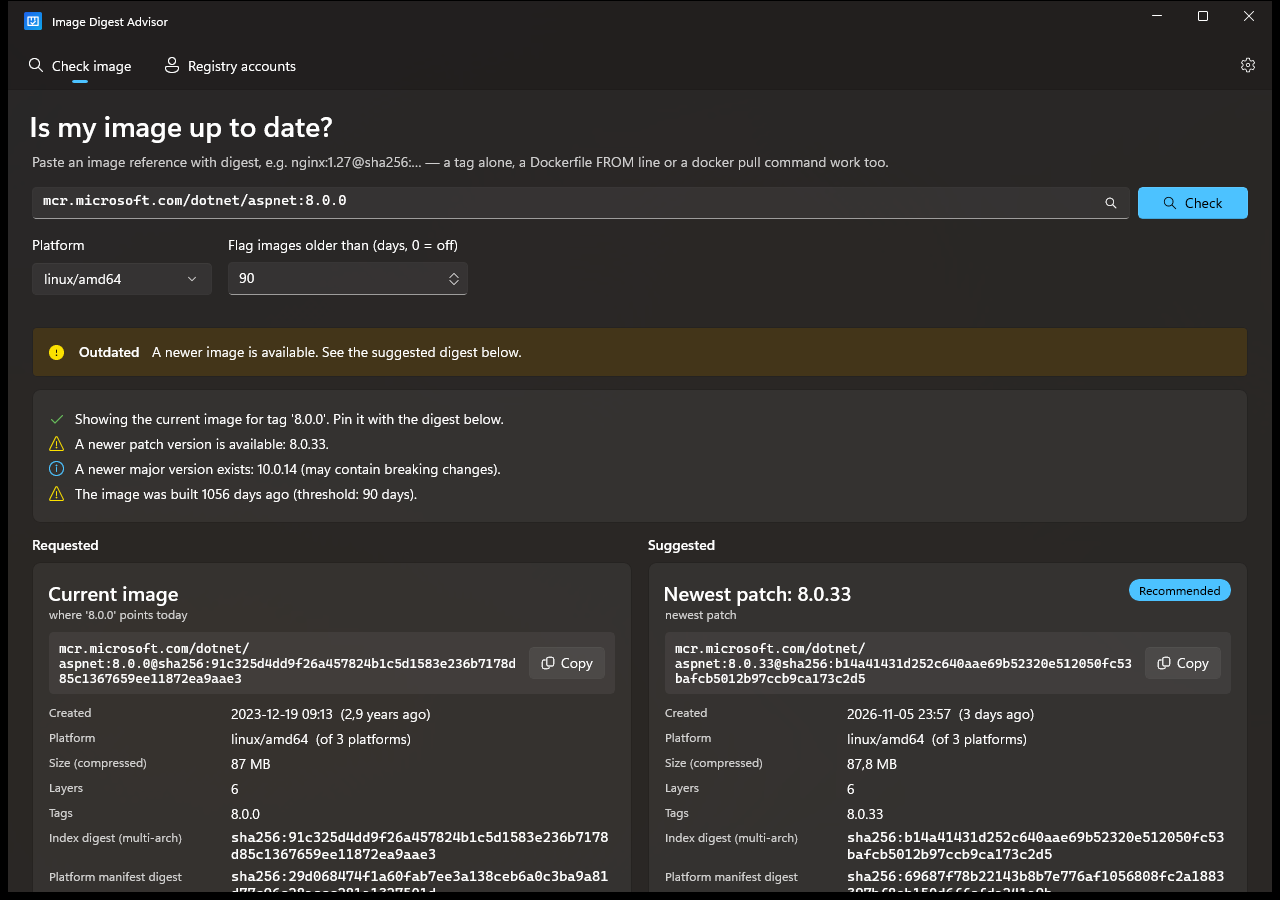
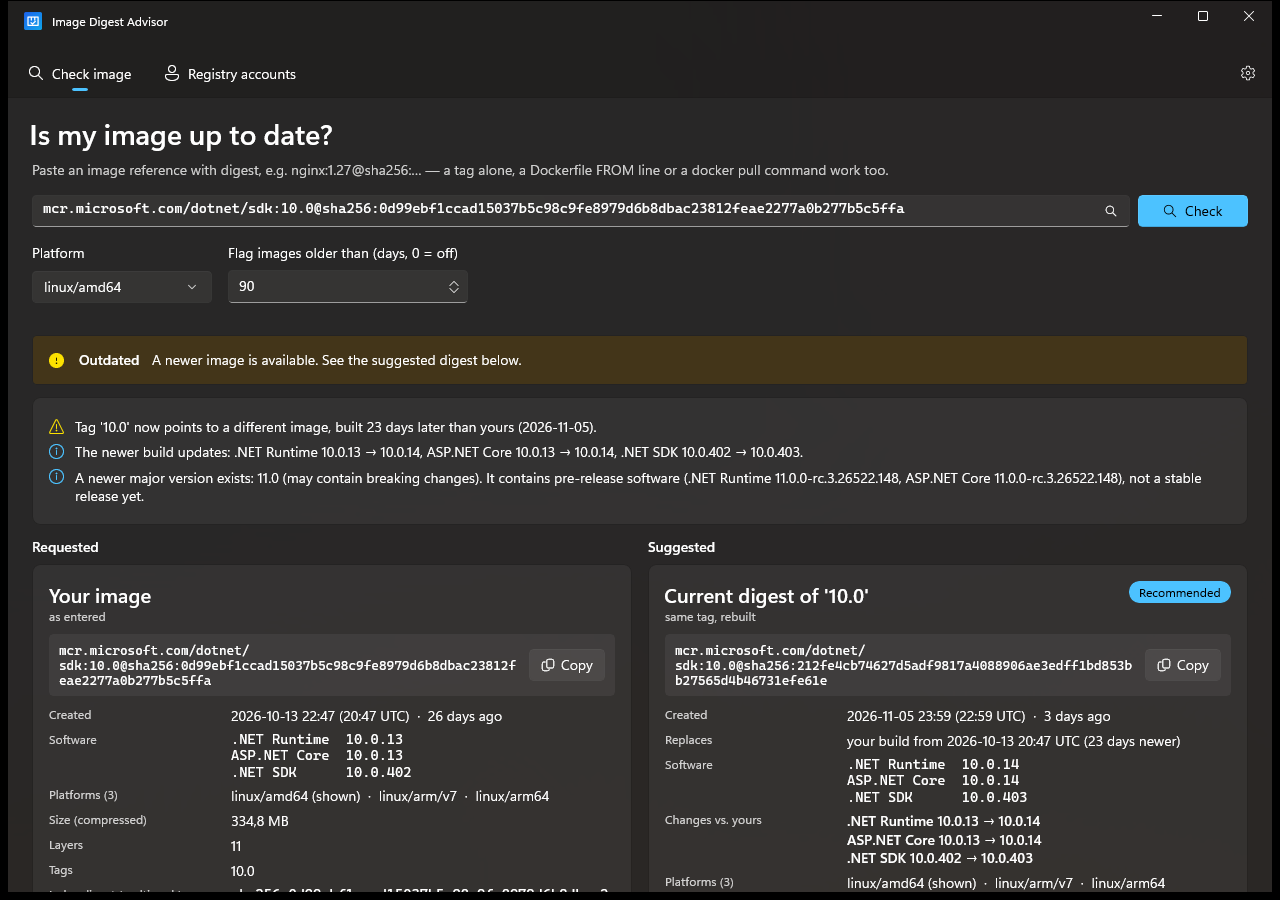
Update README and screenshots for v0.2.0
New screenshots of the current app (result view, image details with build history) and documentation of software versions, changes vs. your image, pre-release marking and the details sections.

diff --git a/README.md b/README.md
@@ -1,8 +1,12 @@
 # Image Digest Advisor
 
-**Is my pinned container image still up to date?** Image Digest Advisor is a Windows app that checks a Docker image digest such as `nginx:1.26@sha256:192e…` and tells you whether it is outdated. If it is, the app suggests an updated `repo:tag@sha256:…` reference that you can paste into your Dockerfile, compose file or Kubernetes manifest.
+**Is my pinned container image still up to date?** Image Digest Advisor is a Windows app that checks a Docker image digest such as `mcr.microsoft.com/dotnet/sdk:10.0@sha256:0d99…` and tells you whether it is outdated.
 
-![Image Digest Advisor showing an outdated image and the recommended update](docs/images/check-result.png)
+If it is, the app:
+- suggests an updated `repo:tag@sha256:…` reference that you can paste into your Dockerfile, compose file or Kubernetes manifest, and
+- shows **what changed**, e.g. *.NET SDK 10.0.402 → 10.0.403*.
+
+![Image Digest Advisor: the pinned .NET SDK image is outdated; the recommended update contains .NET 10.0.14 and SDK 10.0.403](docs/images/check-result.png)
 
 - [For users](#for-users): [supported registries](#supported-registries), install, check an image, read the result, registry accounts
 - [For developers](#for-developers): architecture, build, releases
@@ -18,12 +22,23 @@ For an image you enter, the app checks:
 
 | Check | Example |
 |---|---|
-| **Has the tag moved?** The same tag now points to a newer build. | `nginx:1.26` was rebuilt, and your digest is the old build. |
+| **Has the tag moved?** The same tag now points to a newer build. | `dotnet/sdk:10.0` was rebuilt 23 days after your build. |
+| **What's inside the newer build?** The software versions declared in both images are compared. | *.NET Runtime 10.0.13 → 10.0.14, .NET SDK 10.0.402 → 10.0.403*. Or: "same versions, rebuilt with base image / OS updates". |
 | **Is there a newer patch or minor version?** It stays in the same variant. | `1.26.0` → `1.26.3`, or `1.27.2-alpine` → `1.31.8-alpine` (never `-bookworm`) |
-| **Is there a new major version?** Shown for information only. | `8.0.x` → `10.0.x` |
+| **Is there a new major version?** Shown for information only. | `10.0` → `11.0` |
+| **Is the newer version a pre-release?** Preview and RC builds are marked and never recommended. | `sdk:11.0` currently contains *11.0.0-rc.3*, so it's shown as "⚠ pre-release" |
 | **Is the image old?** It was built more than *n* days ago (default 90). | "built 919 days ago" |
 
-For your image and for each suggestion it shows the build date and age, platform, size, number of layers, all tags pointing to it, the digests, and the image's labels (version, source repository, revision).
+For your image and for each suggestion, the app shows:
+
+- **Software versions** the image contains, e.g. .NET Runtime, ASP.NET Core, .NET SDK, nginx, Node.js, Python, Java, Go, PostgreSQL, Redis. These are read from the image's `*_VERSION` variables.
+- **What changed compared with your image** (on suggestions), and how much newer the build is.
+- **Build date** in local time and UTC, and the age.
+- **Platforms:** all platforms the image supports, e.g. `linux/amd64 · linux/arm/v7 · linux/arm64`.
+- **Size, layers, tags and digests.**
+- **Image labels:** version, source repository, revision, base image.
+- **How the container starts:** user, working directory, start command, exposed ports.
+- **Expandable details:** all labels, all environment variables, and the complete **build history** (every Dockerfile step with its date).
 
 ## Supported registries
 
@@ -107,15 +122,31 @@ Recent inputs are remembered. Click into the empty input box to see them.
 - 🟡 **Outdated**: the tag has moved, a newer patch or minor version exists, or the image is older than your limit.
 - 🔵 **Could not determine**: the tag of the digest is unknown. Enter the image as `repo:tag@sha256:…`.
 
-**The findings list** explains each reason, e.g. *"Tag '1.26' now points to a different image, built 278 days later than yours."*
+**The findings list** explains each reason, for example:
 
-**Requested vs. Suggested:** on the left is your image, on the right are the suggested updates. Each card has a **Copy** button for the ready-to-paste reference. One suggestion is marked **Recommended**:
+- ⚠ *Tag '10.0' now points to a different image, built 23 days later than yours.*
+- ℹ *The newer build updates: .NET Runtime 10.0.13 → 10.0.14, ASP.NET Core 10.0.13 → 10.0.14, .NET SDK 10.0.402 → 10.0.403.*
+- ℹ *A newer major version exists: 11.0. It contains pre-release software (.NET Runtime 11.0.0-rc.3…), not a stable release yet.*
+
+**Requested vs. Suggested:** on the left is your image, on the right are the suggested updates. Each card has a **Copy** button for the ready-to-paste reference.
+
+On each suggestion:
+- **Replaces** says how much newer it is than your build.
+- **Changes vs. yours** lists the software versions that differ, shown in bold.
+
+One suggestion is marked **Recommended**:
 
 1. the newest **patch** of your version line, otherwise
 2. the **current digest of your tag** (same tag, rebuilt), otherwise
 3. the newest **minor** version.
 
-A new **major** version is shown but never recommended automatically, because it may contain breaking changes.
+Some suggestions are never recommended automatically:
+- A new **major** version is shown, but it may contain breaking changes.
+- **Pre-releases** (preview or RC) are labelled *"⚠ pre-release (preview/RC), not a stable version"*. They also don't make your image "outdated".
+
+![Image details: build history of your image, and the pre-release 11.0 suggestion with software versions and changes](docs/images/image-details.png)
+
+Scroll down on a card for the full details. Expand **Environment variables** or **Build history** to see exactly how the image was built, e.g. which `DOTNET_VERSION` was set in which step.
 
 > **Tip:** Copy the reference **with** the tag, e.g. `nginx:1.26.3@sha256:41b1…`. The digest guarantees the exact image, and the tag keeps it readable.
 
@@ -159,6 +190,7 @@ Click **Test connection** before saving.
 | *"Could not determine"*, or no suggestions | Enter the tag as well: `repo:tag@sha256:…`. |
 | *"The tag … was guessed"* | The digest no longer has a tag, so the app used the version stored inside the image. Add the tag to your input for exact results. |
 | *"not available for linux/arm64"* | The suggested image doesn't support your platform. Choose another version. |
+| No **Software** row on a card | The image doesn't declare its versions in `*_VERSION` environment variables. Check **Version label**, **Build history** or the source repository instead. |
 | *"Update check failed"* | Usually no internet connection, or GitHub is blocked by a proxy. The app keeps working; try again later under **Settings › Updates**. |
 | The app doesn't start | Send `%LOCALAPPDATA%\ImageDigestAdvisor.Data\crash.log` to the maintainer, or [open an issue](https://github.com/hvetter-de/Image-Digest-Advisor/issues). |
 
@@ -183,11 +215,12 @@ Entry points: `DigestAnalyzer` (the analysis), `RegistryClient` (OCI Distributio
 ## How an analysis works
 
 1. Parse the reference (`nginx` → `docker.io/library/nginx`).
-2. Load the manifest by digest. For a multi-arch index, pick the platform manifest. Then read the config blob to get the created date, labels and environment.
+2. Load the manifest by digest. For a multi-arch index, pick the platform manifest. Then read the config blob to get the created date, labels, environment, entrypoint/cmd, user, ports and build history (`ManifestParser.ParseConfig` → `ImageConfig`).
 3. List tags. Docker Hub uses its web API, which includes digests. Other registries use `/v2/<repo>/tags/list`.
 4. Find the tags of the digest. If there are none, use version hints from the image (`org.opencontainers.image.version`, `*_VERSION` environment variables) and confirm them with HEAD requests.
 5. Resolve the same tag's current digest, plus the newest patch, minor and major in the same tag family. A family means the same prefix, the same number of version parts, and the same suffix with digits ignored (see `TagVersion`).
-6. Build findings and an overall status, and deduplicate suggestions by digest.
+6. Compare software versions. `ImageDetails.SoftwareVersions` collects the `*_VERSION` environment variables, and `SoftwareChangesSince` compares two images. Versions with `-rc`, `-preview` and similar suffixes count as pre-releases (`SoftwareVersion.IsPrerelease`). They never raise a warning and are never recommended.
+7. Build findings and an overall status, and deduplicate suggestions by digest.
 
 ## How credentials are resolved
 
